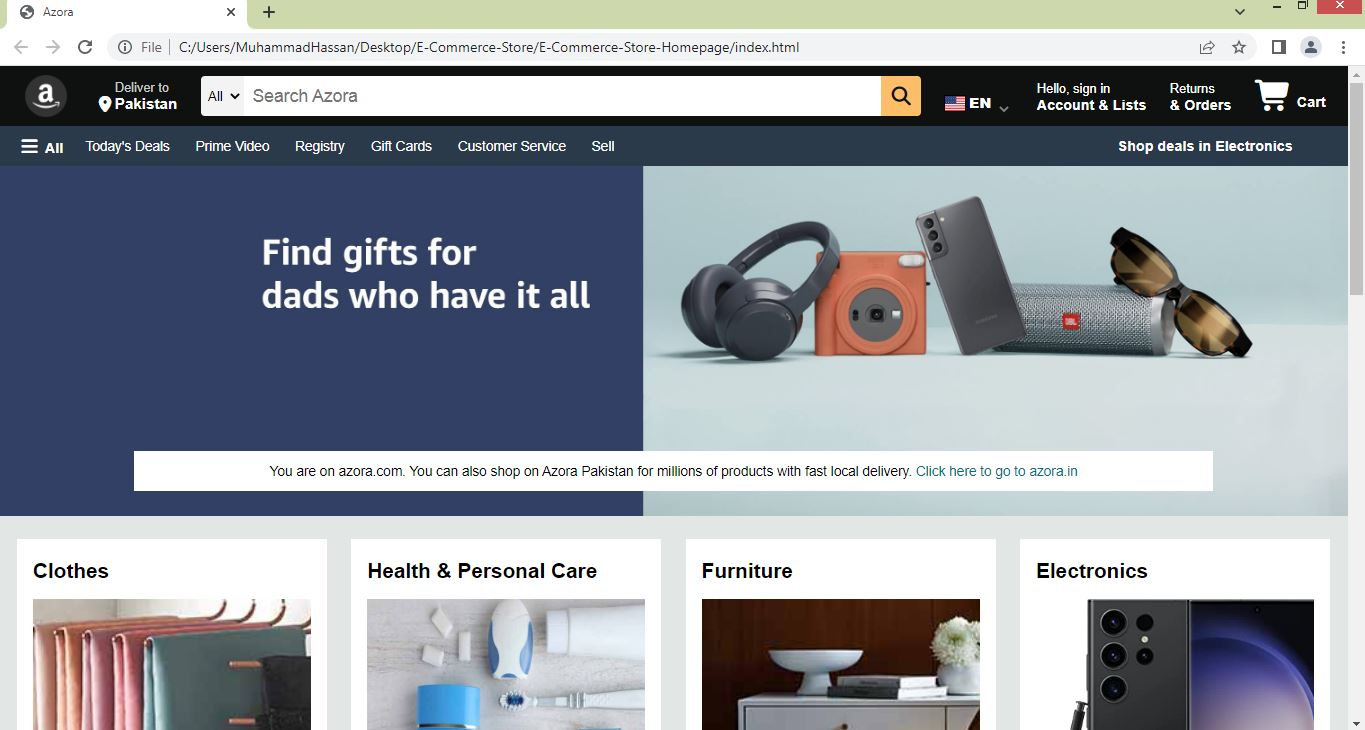
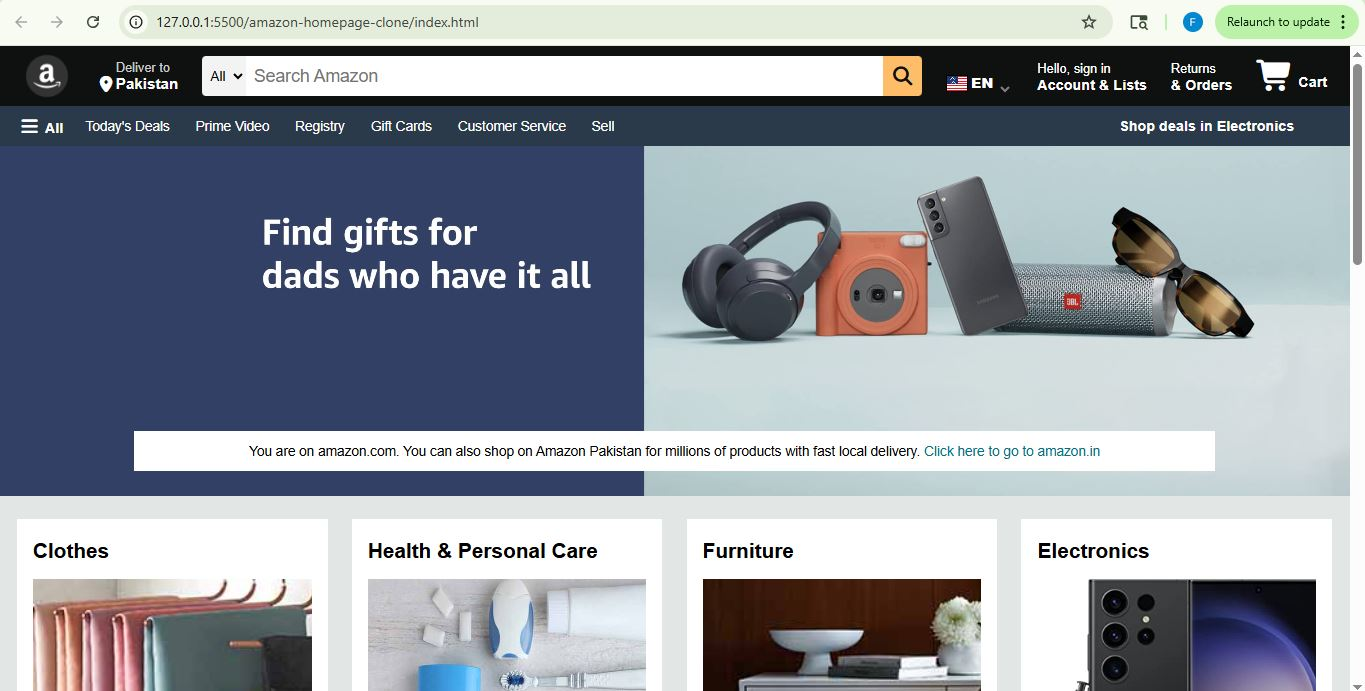
Add proper README, live demo links etc for mini projects

diff --git a/amazon-homepage-clone/index.html b/amazon-homepage-clone/index.html
@@ -3,7 +3,7 @@
 <head>
 	<meta charset="utf-8">
 	<meta name="viewport" content="width=device-width, initial-scale=1">
-	<title>Azora</title>
+	<title>Amazon</title>
 	<link rel="stylesheet" href="https://cdnjs.cloudflare.com/ajax/libs/font-awesome/7.0.1/css/all.min.css" integrity="sha512-2SwdPD6INVrV/lHTZbO2nodKhrnDdJK9/kg2XD1r9uGqPo1cUbujc+IYdlYdEErWNu69gVcYgdxlmVmzTWnetw==" crossorigin="anonymous" referrerpolicy="no-referrer" />
 	<link rel="stylesheet" href="style.css">
 </head>
@@ -28,7 +28,7 @@
       	   	<select class="search-select">
       	   		<option>All</option>
       	   	</select>
-      	   	<input placeholder="Search Azora" class="search-input">
+      	   	<input placeholder="Search Amazon" class="search-input">
       	   	<div class="search-icon">
       	   		<i class="fa-solid fa-magnifying-glass"></i>
       	   	</div>
@@ -72,7 +72,7 @@
       </header>
       <div class="hero-section">
       	<div class="hero-message">
-      		<p>You are on azora.com. You can also shop on Azora Pakistan for millions of products with fast local delivery. <a href="#">Click here to go to azora.in</a></p>
+      		<p>You are on amazon.com. You can also shop on Amazon Pakistan for millions of products with fast local delivery. <a href="#">Click here to go to amazon.in</a></p>
       	</div>
       </div>
       <div class="shop-section">
@@ -140,32 +140,32 @@
                   <p>Get to Know Us</p>
                   <a href="#">Careers</a>
                   <a href="#">Blog</a>
-                  <a href="#">About Azora</a>
+                  <a href="#">About Amazon</a>
                   <a href="#">Investor Relations</a>
-                  <a href="#">Azora Devices</a>
-                  <a href="#">Azora Science</a>
+                  <a href="#">Amazon Devices</a>
+                  <a href="#">Amazon Science</a>
                   </ul>
                   <ul>
                   <p>Make Money with Us</p>
-                  <a href="#">Sell products on Azora</a>
-                  <a href="#">Sell on Azora Business</a>
-                  <a href="#">Sell apps on Azora</a>
+                  <a href="#">Sell products on Amazon</a>
+                  <a href="#">Sell on Amazon Business</a>
+                  <a href="#">Sell apps on Amazon</a>
                   <a href="#">Become an Affiliate</a>
                   <a href="#">Advertise Your Products</a>
                   <a href="#">Self-Publish with Us</a>
-                  <a href="#">Host an Azora Hub</a>
+                  <a href="#">Host an Amazon Hub</a>
                   <a href="#">›See More Make Money with Us</a>
                   </ul>
                   <ul>
-                  <p>Azora Payment Products</p>
-                  <a href="#">Azora Business Card</a>
+                  <p>Amazon Payment Products</p>
+                  <a href="#">Amazon Business Card</a>
                   <a href="#">Shop with Points</a>
                   <a href="#">Reload Your Balance</a>
-                  <a href="#">Azora Currency Converter</a>
+                  <a href="#">Amazon Currency Converter</a>
                   </ul>
                   <ul>
                   <p>Let Us Help You</p>
-                  <a href="#">Azora and COVID-19</a>
+                  <a href="#">Amazon and COVID-19</a>
                   <a href="#">Your Account</a>
                   <a href="#">Your Orders</a>
                   <a href="#">Shipping Rates & Policies</a>
@@ -184,7 +184,7 @@
                   <a href="#">Consumer Health Data Privacy Disclosure</a>
                   <a href="#">Your Ads Privacy Choices</a>
                   </div>
-            <div class="copyright">© 1999-2030, Azora.com, Inc. or its affiliates</div>
+            <div class="copyright">© 1999-2030, Amazon.com, Inc. or its affiliates</div>
             </div>
       </footer>
 </body>

diff --git a/javascript-mini-projects/currency-converter/README.md b/javascript-mini-projects/currency-converter/README.md
@@ -1,0 +1,78 @@
+# 💱 Currency Converter
+
+![HTML](https://img.shields.io/badge/HTML-5-orange?logo=html5\&logoColor=white)
+![CSS](https://img.shields.io/badge/CSS-3-blue?logo=css3\&logoColor=white)
+![JavaScript](https://img.shields.io/badge/JavaScript-ES6-yellow?logo=javascript\&logoColor=black)
+![API](https://img.shields.io/badge/API-Currency%20Exchange-green)
+![Status](https://img.shields.io/badge/Status-Active-success)
+![Responsive](https://img.shields.io/badge/Responsive-Yes-brightgreen)
+
+[![Live Demo](https://img.shields.io/badge/Live-Demo-purple?style=for-the-badge\&logo=vercel)](https://currency-converter-mini-project.vercel.app/)
+
+A simple and responsive **Currency Converter Web App** built using **HTML, CSS, and JavaScript**.
+It fetches real-time exchange rates using the **Currency API** and dynamically updates country flags based on selected currencies. 
+
+---
+
+## ✨ Features
+
+* 🌍 Convert currencies in real time
+* 🚩 Dynamic country flags
+* 🔄 Live exchange rate updates
+* 📱 Responsive UI design
+* ⚡ Fast and lightweight
+* 🛡 Input validation for invalid amounts
+
+---
+
+## 🛠 Technologies Used
+
+* HTML5
+* CSS3
+* JavaScript (ES6)
+* Currency Exchange API
+* Flags API
+* Font Awesome Icons
+
+---
+
+## 📂 Project Structure
+
+```bash
+📦 Currency-Converter
+ ┣  index.html
+ ┣  style.css
+ ┣  app.js
+ ┣  currency-codes.js
+ ┗  README.md
+```
+
+---
+
+## 🚀 How It Works
+
+1. User enters an amount
+2. Selects source currency
+3. Selects target currency
+4. App fetches live exchange rates
+5. Converted amount is displayed instantly
+
+---
+
+## 🔗 APIs Used
+
+### Currency API
+
+```bash
+https://cdn.jsdelivr.net/npm/@fawazahmed0/currency-api@latest/v1/currencies
+```
+
+### Flags API
+
+```bash
+https://flagsapi.com/
+```
+
+
+
+

diff --git a/javascript-mini-projects/tic-tac-toe/README.md b/javascript-mini-projects/tic-tac-toe/README.md
@@ -4,7 +4,7 @@
 ![CSS](https://img.shields.io/badge/CSS3-1572B6?style=for-the-badge\&logo=css3\&logoColor=white)
 ![JavaScript](https://img.shields.io/badge/JavaScript-F7DF1E?style=for-the-badge\&logo=javascript\&logoColor=black)
 
-[![Live Demo](https://img.shields.io/badge/Live%20Demo-Click%20Here-blue?style=for-the-badge)](https://fatima-qaisar.github.io/tic-tac-toe/)
+[![Live Demo](https://img.shields.io/badge/Live%20Demo-Click%20Here-blue?style=for-the-badge)](https://tic-tac-toe-game-57.vercel.app/)
 
 A responsive and interactive Tic-Tac-Toe game built using **HTML, CSS, and JavaScript**, featuring dynamic gameplay, win/draw detection, and an animated winning line using the HTML5 Canvas.
 
